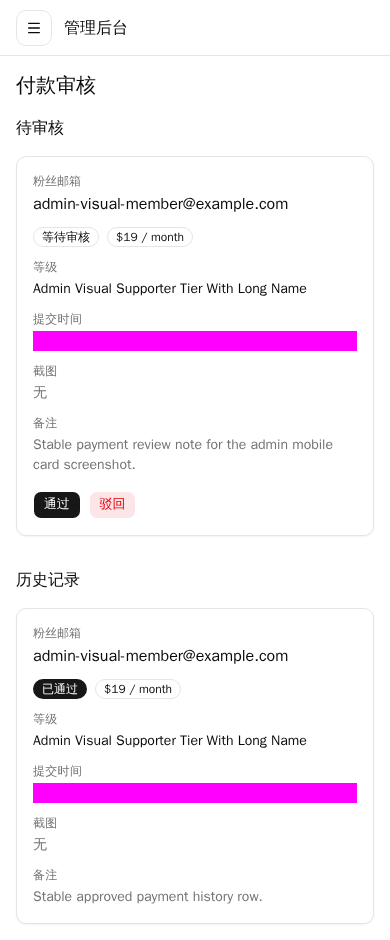
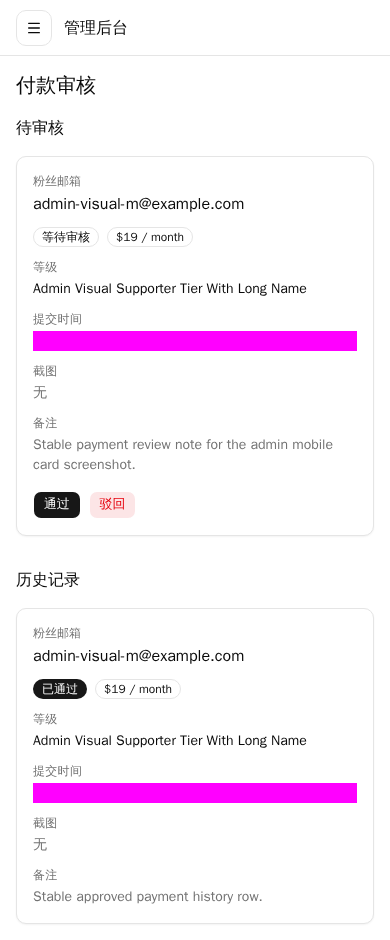
test: stabilize payment review visual baseline

Changed region(s): [[0.3385, 0.6787, 0.7385, 0.7096], [0.3692, 0.1851, 0.6462, 0.2468], [0.6769, 0.216, 0.7385, 0.2468]]

diff --git a/e2e/admin-visual-regression.spec.ts b/e2e/admin-visual-regression.spec.ts
@@ -21,7 +21,7 @@ import { type Locale, LOCALE_COOKIE } from "../src/modules/i18n/config";
 const BASE_URL = process.env.E2E_BASE_URL ?? "http://127.0.0.1:3001";
 const THEME_MODE_COOKIE = "theme_mode";
 const ADMIN_EMAIL = "[email redacted]";
-const MEMBER_EMAIL = "[email redacted]";
+const MEMBER_EMAIL = "[email redacted]";
 const TIER_SLUG = "admin-visual-e2e-tier";
 const POST_SLUG = "admin-visual-e2e-post";
 const FILE_OBJECT_PREFIX = "admin-visual-e2e/";